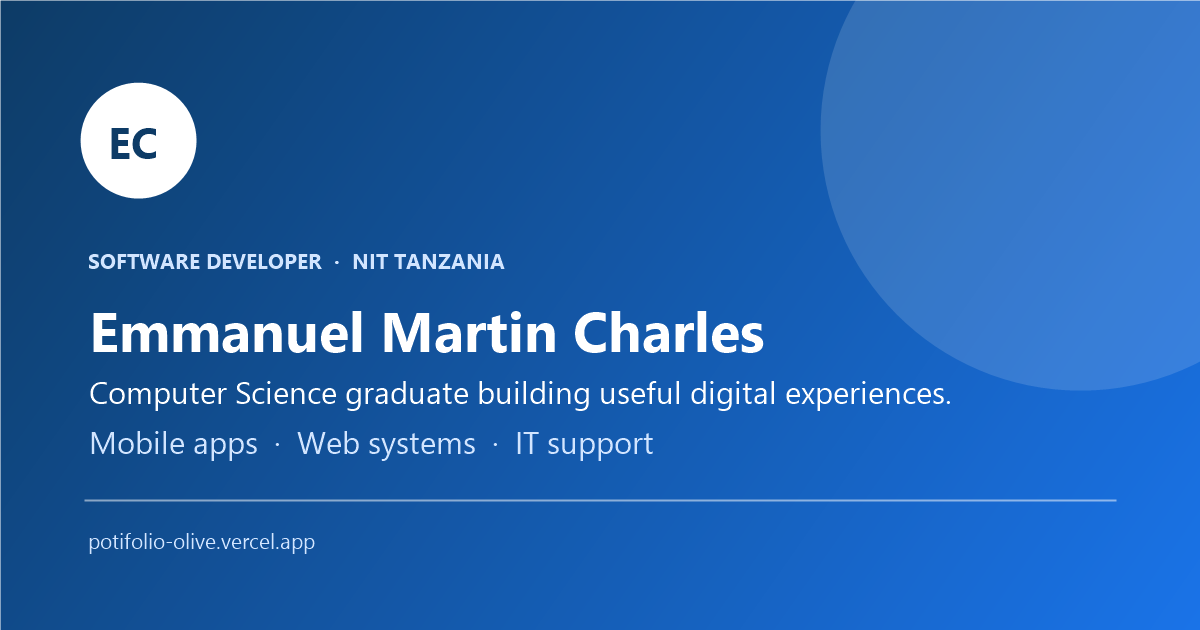
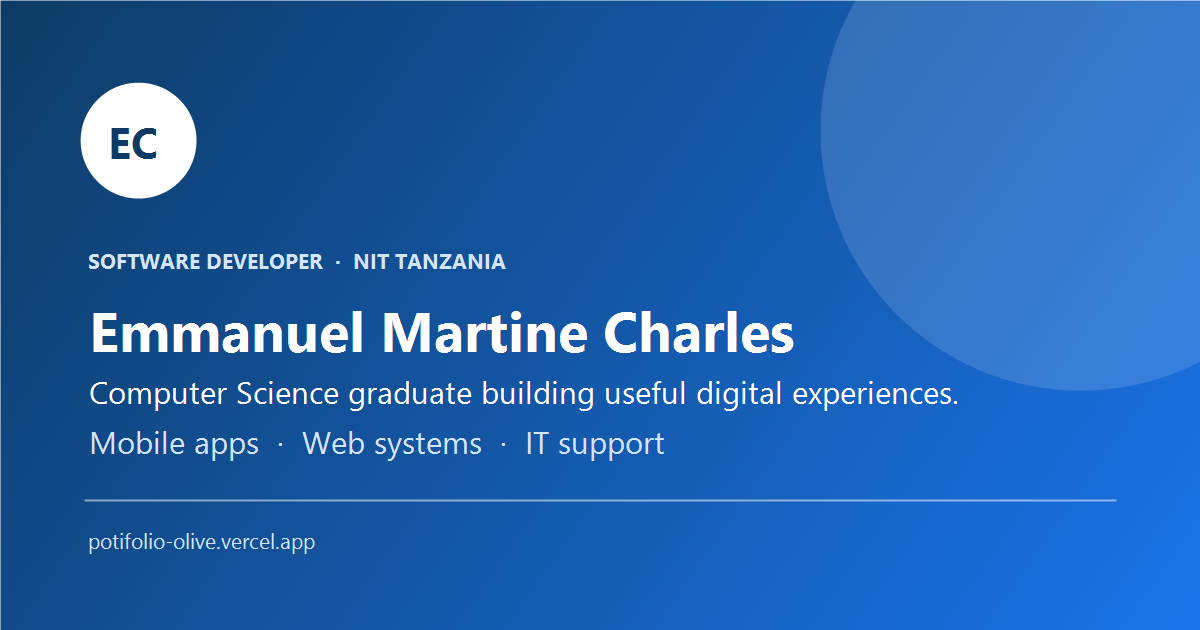
portfolioo

diff --git a/index.html b/index.html
@@ -1,7 +1,11 @@
 <!doctype html><html lang="en"><head><meta charset="utf-8"><meta name="viewport" content="width=device-width,initial-scale=1"><title>Emmanuel Charles | Portfolio</title><meta name="description" content="Computer Science graduate and technology professional in Tanzania with experience in mobile app development, web development, PHP, React, Flutter, C, C++, MySQL, PostgreSQL, networking, systems support, embedded systems, Arduino, ESP32, graphics and UI design, Agentic AI, software engineering, and IT support. A fast learner and problem solver focused on building reliable, secure, and useful digital solutions."><meta property="og:title" content="Emmanuel Charles | Portfolio"><meta property="og:description" content="Computer Science graduate and technology professional in Tanzania with experience in mobile app development, web development, PHP, React, Flutter, C, C++, MySQL, PostgreSQL, networking, systems support, embedded systems, Arduino, ESP32, graphics and UI design, Agentic AI, software engineering, and IT support. A fast learner and problem solver focused on building reliable, secure, and useful digital solutions."><meta property="og:image" content="https://potifolio-olive.vercel.app/og-image.png"><meta property="og:type" content="website"><meta property="og:url" content="https://potifolio-olive.vercel.app/"><meta name="twitter:card" content="summary_large_image"><meta name="twitter:title" content="Emmanuel Charles | Portfolio"><meta name="twitter:description" content="Computer Science graduate and technology professional in Tanzania with experience in mobile app development, web development, PHP, React, Flutter, C, C++, MySQL, PostgreSQL, networking, systems support, embedded systems, Arduino, ESP32, graphics and UI design, Agentic AI, software engineering, and IT support. A fast learner and problem solver focused on building reliable, secure, and useful digital solutions."><meta name="twitter:image" content="https://potifolio-olive.vercel.app/og-image.png"><link rel="icon" type="image/png" href="https://potifolio-olive.vercel.app/og-image.png"><link rel="stylesheet" href="styles.css"></head><body>
-<header class="topbar"><a class="brand" href="index.html">Emmanuel Martin <span>Charles.</span></a><div class="search">⌕ <input id="site-search" aria-label="Search site" placeholder="Search"></div><nav class="nav"><a href="index.html" aria-current="page">Home</a><a href="about.html">About</a><a href="projects.html">Projects</a><a href="skills.html">Skills</a><a href="contact.html">Contact</a></nav><button class="menu" aria-label="Open navigation" aria-expanded="false">☰</button></header>
-<main><div class="shell"><section class="hero"><div class="hero-copy"><div class="eyebrow">Software developer · NIT Tanzania</div><h1>Building useful <em>digital experiences.</em></h1><p class="lead">I’m Emmanuel Martin Charles, a Computer Science graduate and technology professional with experience across mobile apps, web development, databases, networking, systems support, embedded systems, graphics/UI design, Agentic AI, and software engineering. I learn new technologies quickly, solve problems practically, and build reliable digital solutions for real users.</p><div class="btns"><a class="btn btn-primary" href="assets/docs/Emmanuel_Martine_Charles_CV.pdf" download>Download CV ↓</a><a class="btn btn-outline" href="https://wa.me/255628115130" target="_blank" rel="noopener noreferrer">Let’s talk ↗</a></div></div><div class="portrait-wrap"><div class="portrait-fallback" role="img" aria-label="Portrait of Emmanuel Charles">EC</div><div class="float-note">Available for opportunities<br><span class="muted">Dar es Salaam, Tanzania</span></div></div></section></div><div class="marquee"><div class="marquee-track">Panga Leo <b>✦</b> KacheHub <b>✦</b> Malenya Pharmacy <b>✦</b> Web systems <b>✦</b> IT support <b>✦</b> Panga Leo <b>✦</b> KacheHub <b>✦</b> Malenya Pharmacy <b>✦</b></div></div><div class="shell"><section class="section reveal"><div class="section-head"><div><div class="eyebrow">Selected work</div><h2>Projects with purpose.</h2></div><p>A few digital products I’ve designed, developed, and helped bring to life.</p></div><div class="cards"><article class="project-card glass"><div class="project-preview"><iframe src="https://pangaleo.co.tz" title="Panga Leo live website preview" loading="lazy"></iframe></div><div class="project-card-body"><span class="tag">01 · Mobile application</span><h3>Panga Leo</h3><p class="muted">A full-cycle mobile application published for Google Play and the Apple App Store.</p><a class="btn btn-outline" href="https://pangaleo.co.tz" target="_blank" rel="noopener noreferrer">Visit project ↗</a></div></article><article class="project-card glass"><div class="project-preview"><iframe src="https://kachehub.com" title="KacheHub live website preview" loading="lazy"></iframe></div><div class="project-card-body"><span class="tag">02 · Web platform</span><h3>KacheHub</h3><p class="muted">A focused web experience built to make digital interaction clearer and more useful.</p><a class="btn btn-outline" href="https://kachehub.com" target="_blank" rel="noopener noreferrer">Visit project ↗</a></div></article><article class="project-card glass"><div class="project-preview"><iframe src="https://malenyapharmacy.com" title="Malenya Pharmacy live website preview" loading="lazy"></iframe></div><div class="project-card-body"><span class="tag">03 · Business website</span><h3>Malenya Pharmacy</h3><p class="muted">A clean, accessible online presence for a modern pharmacy and its customers.</p><a class="btn btn-outline" href="https://malenyapharmacy.com" target="_blank" rel="noopener noreferrer">Visit project ↗</a></div></article></div></section><section class="section reveal"><div class="glass content-card"><div class="eyebrow">A little about me</div><h2>Technology should feel human.</h2><p class="lead">From ICT system support at TANESCO Simiyu to website design and full mobile application development, I enjoy turning practical needs into dependable digital products.</p><a class="btn btn-primary" href="about.html">More about Emmanuel →</a></div></section></div></main>
-<footer><div class="shell"><div class="footer-grid"><div><a class="brand" href="index.html">Emmanuel Martin <span>Charles.</span></a><p class="muted">Available for Software Development & IT Support opportunities.</p></div><div class="socials"><a href="https://www.tiktok.com/@vanadizy" target="_blank" rel="noopener noreferrer" aria-label="TikTok">TT</a><a href="https://www.instagram.com/vanadizy" target="_blank" rel="noopener noreferrer" aria-label="Instagram">IG</a><a href="https://www.facebook.com/vanadizy" target="_blank" rel="noopener noreferrer" aria-label="Facebook">FB</a><a href="https://www.youtube.com/@vanadizyemachazy" target="_blank" rel="noopener noreferrer" aria-label="YouTube">YT</a><a href="https://www.linkedin.com/in/emmanuel-charles-072677372" target="_blank" rel="noopener noreferrer" aria-label="LinkedIn">in</a><a href="https://github.com/vanadizy" target="_blank" rel="noopener noreferrer" aria-label="GitHub">GH</a><a href="https://wa.me/255628115130" target="_blank" rel="noopener noreferrer" aria-label="WhatsApp">WA</a><a href="mailto:vanadizyemachazy@gmail.com" aria-label="Email">@</a></div></div><div class="copyright"><span>© 2026 Emmanuel Martin Charles. All rights reserved.</span><span>Made with care in Tanzania.</span></div></div></footer><script src="script.js"></script></body></html>
+<header class="topbar"><a class="brand" href="index.html">Emmanuel <span>Charles.</span></a><div class="search">⌕ <input id="site-search" aria-label="Search site" placeholder="Search"></div><nav class="nav"><a href="index.html" aria-current="page">Home</a><a href="about.html">About</a><a href="projects.html">Projects</a><a href="skills.html">Skills</a><a href="contact.html">Contact</a></nav><button class="menu" aria-label="Open navigation" aria-expanded="false">☰</button></header>
+<main><div class="shell"><section class="hero"><div class="hero-copy"><div class="eyebrow">Software developer · NIT Tanzania</div><h1>Building useful <em>digital experiences.</em></h1><p class="lead">I’m Emmanuel Martine Charles, a Computer Science graduate and technology professional with experience across mobile apps, web development, databases, networking, systems support, embedded systems, graphics/UI design, Agentic AI, and software engineering. I learn new technologies quickly, solve problems practically, and build reliable digital solutions for real users.</p><div class="btns"><a class="btn btn-primary" href="assets/docs/Emmanuel_Martine_Charles_CV.pdf" download>Download CV ↓</a><a class="btn btn-outline" href="https://wa.me/255628115130" target="_blank" rel="noopener noreferrer">Let’s talk ↗</a></div></div><div class="portrait-wrap"><div class="portrait-fallback" role="img" aria-label="Portrait of Emmanuel Charles">EC</div><div class="float-note">Available for opportunities<br><span class="muted">Dar es Salaam, Tanzania</span></div></div></section></div><div class="marquee"><div class="marquee-track">Panga Leo <b>✦</b> KacheHub <b>✦</b> Malenya Pharmacy <b>✦</b> Web systems <b>✦</b> IT support <b>✦</b> Panga Leo <b>✦</b> KacheHub <b>✦</b> Malenya Pharmacy <b>✦</b></div></div><div class="shell"><section class="section reveal"><div class="section-head"><div><div class="eyebrow">Selected work</div><h2>A sample of accomplished projects.</h2></div><p>A few digital products I’ve designed, developed, and helped bring to life.</p></div><div class="cards"><article class="project-card glass"><div class="project-preview"><iframe src="https://pangaleo.co.tz" title="Panga Leo live website preview" loading="lazy"></iframe></div><div class="project-card-body"><span class="tag">01 · Mobile application</span><h3>Panga Leo</h3><p class="muted">A full-cycle mobile application published for Google Play and the Apple App Store.</p><a class="btn btn-outline" href="https://pangaleo.co.tz" target="_blank" rel="noopener noreferrer">Visit project ↗</a></div></article><article class="project-card glass"><div class="project-preview"><iframe src="https://kachehub.com" title="KacheHub live website preview" loading="lazy"></iframe></div><div class="project-card-body"><span class="tag">02 · Web platform</span><h3>KacheHub</h3><p class="muted">A focused web experience built to make digital interaction clearer and more useful.</p><a class="btn btn-outline" href="https://kachehub.com" target="_blank" rel="noopener noreferrer">Visit project ↗</a></div></article><article class="project-card glass"><div class="project-preview"><iframe src="https://malenyapharmacy.com" title="Malenya Pharmacy live website preview" loading="lazy"></iframe></div><div class="project-card-body"><span class="tag">03 · Business website</span><h3>Malenya Pharmacy</h3><p class="muted">A clean, accessible online presence for a modern pharmacy and its customers.</p><a class="btn btn-outline" href="https://malenyapharmacy.com" target="_blank" rel="noopener noreferrer">Visit project ↗</a></div></article></div></section><section class="section reveal"><div class="glass content-card"><div class="eyebrow">A little about me</div><h2>Technology should feel human.</h2><p class="lead">From ICT system support at TANESCO Simiyu to website design and full mobile application development, I enjoy turning practical needs into dependable digital products.</p><a class="btn btn-primary" href="about.html">More about Emmanuel →</a></div></section></div></main>
+<footer><div class="shell"><div class="footer-grid"><div><a class="brand" href="index.html">Emmanuel <span>Charles.</span></a><p class="muted">Available for Software Development & IT Support opportunities.</p></div><div class="socials"><a href="https://www.tiktok.com/@vanadizy" target="_blank" rel="noopener noreferrer" aria-label="TikTok">TT</a><a href="https://www.instagram.com/vanadizy" target="_blank" rel="noopener noreferrer" aria-label="Instagram">IG</a><a href="https://www.facebook.com/vanadizy" target="_blank" rel="noopener noreferrer" aria-label="Facebook">FB</a><a href="https://www.youtube.com/@vanadizyemachazy" target="_blank" rel="noopener noreferrer" aria-label="YouTube">YT</a><a href="https://www.linkedin.com/in/emmanuel-charles-072677372" target="_blank" rel="noopener noreferrer" aria-label="LinkedIn">in</a><a href="https://github.com/vanadizy" target="_blank" rel="noopener noreferrer" aria-label="GitHub">GH</a><a href="https://wa.me/255628115130" target="_blank" rel="noopener noreferrer" aria-label="WhatsApp">WA</a><a href="mailto:vanadizyemachazy@gmail.com" aria-label="Email">@</a></div></div><div class="copyright"><span>© 2026 Emmanuel Martine Charles. All rights reserved.</span><span>Made with care in Tanzania.</span></div></div></footer><script src="script.js"></script></body></html>
+
+
+
+
 
 
 

diff --git a/script.js b/script.js
@@ -8,11 +8,12 @@ const shareDescription = 'Computer Science graduate and technology professional 
 document.querySelector('meta[name="description"]')?.setAttribute('content', shareDescription);
 document.querySelector('meta[property="og:description"]')?.setAttribute('content', shareDescription);
 if (!document.querySelector('meta[name="twitter:description"]')) { const twitterDescription = document.createElement('meta'); twitterDescription.name = 'twitter:description'; twitterDescription.content = shareDescription; document.head.appendChild(twitterDescription); }
-document.querySelectorAll('.hero-copy .lead, .page-hero .lead').forEach(copy => { copy.textContent = copy.textContent.replaceAll('Martine', 'Martin'); if (!copy.textContent.includes('fast learner')) copy.textContent += ' I am a fast learner of new technologies and a fast problem solver.'; });
-if (document.title.startsWith('About |')) { const aboutLead = document.querySelector('.page-hero .lead'); if (aboutLead) aboutLead.textContent = 'I’m Emmanuel Martin Charles, a Computer Science graduate and technology professional with experience in mobile applications, web development, databases, networking, systems support, embedded systems, graphics/UI design, Agentic AI, software engineering, and IT support.'; }
+document.querySelectorAll('.hero-copy .lead, .page-hero .lead').forEach(copy => { if (!copy.textContent.includes('fast learner')) copy.textContent += ' I am a fast learner of new technologies and a fast problem solver.'; });
+if (document.title.startsWith('About |')) { const aboutLead = document.querySelector('.page-hero .lead'); if (aboutLead) aboutLead.textContent = 'I’m Emmanuel Martine Charles, a Computer Science graduate and technology professional with experience in mobile applications, web development, databases, networking, systems support, embedded systems, graphics/UI design, Agentic AI, software engineering, and IT support.'; }
 if (document.title.startsWith('About |')) document.body.classList.add('about-page');
-document.querySelectorAll('meta').forEach(meta => { if (meta.content) meta.content = meta.content.replaceAll('Martine', 'Martin'); });
-document.querySelectorAll('.brand').forEach(brand => { const name = Array.from(brand.childNodes).find(node => node.nodeType === Node.TEXT_NODE); if (name) name.textContent = 'Emmanuel Martin '; });
+if (document.title.startsWith('About |')) { const aboutLead = document.querySelector('.page-hero .lead'); if (aboutLead) aboutLead.textContent = aboutLead.textContent.replace('Martin', 'Martine'); }
+document.querySelectorAll('.brand').forEach(brand => { const name = Array.from(brand.childNodes).find(node => node.nodeType === Node.TEXT_NODE); if (name) name.textContent = 'Emmanuel '; });
+document.querySelectorAll('h2').forEach(heading => { if (heading.textContent.trim() === 'Projects with purpose.') heading.textContent = 'A sample of accomplished projects.'; });
 if (menuButton) menuButton.addEventListener('click', () => { nav.classList.toggle('open'); menuButton.setAttribute('aria-expanded', nav.classList.contains('open')); });
 document.querySelectorAll('.nav a').forEach(link => link.addEventListener('click', () => nav?.classList.remove('open')));
 const observer = new IntersectionObserver(entries => entries.forEach(entry => { if (entry.isIntersecting) entry.target.classList.add('visible'); }), { threshold: .12 });
@@ -84,9 +85,9 @@ const socialLinks = [
 document.querySelectorAll('.socials').forEach(group => {
   group.innerHTML = socialLinks.map(([label, href]) => `<a href="${href}" target="_blank" rel="noopener noreferrer" aria-label="${label}"><svg class="icon" viewBox="0 0 24 24" aria-hidden="true">${iconPaths[label]}</svg></a>`).join('');
 });
-document.querySelectorAll('.copyright').forEach(copyright => { copyright.innerHTML = '<span>© 2026 Emmanuel Martin Charles. All rights reserved.</span><span>Made with care in Tanzania.</span>'; });
+document.querySelectorAll('.copyright').forEach(copyright => { copyright.innerHTML = '<span>© 2026 Emmanuel Martine Charles. All rights reserved.</span><span>Made with care in Tanzania.</span>'; });
 document.querySelectorAll('.stats').forEach(stats => {
-  stats.innerHTML = '<div class="stat"><strong>NIT</strong><span>Computer Science graduate from the National Institute of Transport.</span></div><div class="stat"><strong>3+</strong><span>Featured digital products across mobile and web.</span></div><div class="stat"><strong>TZ</strong><span>Based in Dar es Salaam and open to meaningful opportunities.</span></div>';
+  stats.innerHTML = '<div class="stat"><strong>NIT</strong><span>Computer Science graduate from the National Institute of Transport.</span></div><div class="stat"><strong>Build</strong><span>Mobile apps, web systems, databases, and practical digital products.</span></div><div class="stat"><strong>Support</strong><span>Networking, operating systems, IT support, embedded systems, and problem solving.</span></div>';
 });
 document.querySelectorAll('.skill-grid').forEach(grid => {
   if (document.querySelector('.language-section')) return;

diff --git a/styles.css b/styles.css
@@ -26,4 +26,8 @@
 @media(max-width:600px){.contact-option-grid{grid-template-columns:1fr 1fr}.contact-option{padding:20px}.contact-option:last-child{grid-column:1/-1}}
 .category-grid{display:grid;grid-template-columns:repeat(2,1fr);gap:16px}.category-card{padding:26px}.category-card h3{margin:6px 0 10px}.category-tools{display:flex;flex-wrap:wrap;gap:8px;margin-top:18px}.category-tools span{display:inline-flex;align-items:center;gap:6px;padding:7px 10px;border-radius:999px;background:#e9f1fc;color:var(--navy);font-size:.75rem;font-weight:700}.category-tools i{color:var(--blue);font-size:1rem}.text-tool{color:var(--blue)!important}
 @media(max-width:600px){.category-grid{grid-template-columns:1fr}}
+main p,footer p{ text-align:justify; text-justify:inter-word }
 .ai-grid{display:grid;grid-template-columns:repeat(3,1fr);gap:16px}.ai-card{padding:25px}.ai-card h3{margin:6px 0 10px}.quality-note{margin-top:18px;padding:28px}.quality-note h3{margin:16px 0 10px}@media(max-width:800px){.ai-grid{grid-template-columns:1fr 1fr}}@media(max-width:600px){.ai-grid{grid-template-columns:1fr}}
+.hero-copy,.hero-copy p,.hero-copy h1,.hero-copy .eyebrow,.hero-copy .btns{text-align:left}
+@media(max-width:500px){.hero:before{background:linear-gradient(90deg,rgba(245,247,250,.78) 0%,rgba(245,247,250,.38) 48%,rgba(245,247,250,.08) 100%),url('assets/images/profile.jpeg') 72% center/cover no-repeat;opacity:.72}.hero:after{background:linear-gradient(180deg,rgba(245,247,250,.42) 0%,rgba(245,247,250,.12) 48%,rgba(245,247,250,.46) 100%)}.hero-copy{background:rgba(255,255,255,.58);max-width:calc(100% - 28px);margin-left:14px;margin-right:14px}.portrait-fallback{background-position:72% 16%}}
+@media(max-width:500px){.hero{min-height:calc(100svh - 90px);padding:30px 0 48px}.hero:before{display:none}.hero:after{background:linear-gradient(90deg,rgba(245,247,250,.9) 0%,rgba(245,247,250,.62) 42%,rgba(245,247,250,.08) 82%,rgba(245,247,250,0) 100%)}.portrait-wrap{top:0;right:0;bottom:0;left:auto;width:82%;height:100%;z-index:1}.portrait-fallback{height:100%;width:100%;background-color:transparent;background-image:url('assets/images/profile.jpeg')!important;background-size:cover;background-position:72% 16%;border:0;border-radius:0;opacity:.94;mask-image:linear-gradient(90deg,transparent 0%,rgba(0,0,0,.55) 22%,#000 48%);-webkit-mask-image:linear-gradient(90deg,transparent 0%,rgba(0,0,0,.55) 22%,#000 48%)}.hero-copy{z-index:2;max-width:100%;margin:0;padding:26px 20px 22px;background:transparent;border:0;box-shadow:none;backdrop-filter:none}.hero-copy h1,.hero-copy .lead{ text-shadow:0 1px 14px rgba(255,255,255,.8)}}

diff --git a/README.md b/README.md
@@ -1,6 +1,6 @@
-# Emmanuel Martin Charles Portfolio
+# Emmanuel Charles Portfolio
 
-This repository contains Emmanuel Martin Charles's personal portfolio website. It presents his background as a Computer Science graduate, software developer, mobile application developer, web designer, and IT support professional in Tanzania.
+This repository contains Emmanuel Martine Charles's personal portfolio website. It presents his background as a Computer Science graduate, software developer, mobile application developer, web designer, and IT support professional in Tanzania.
 
 The website is designed as a professional personal-brand site with a clean CV-inspired layout, liquid-glass cards, responsive spacing, soft animations, project previews, contact options, and social links.
 
